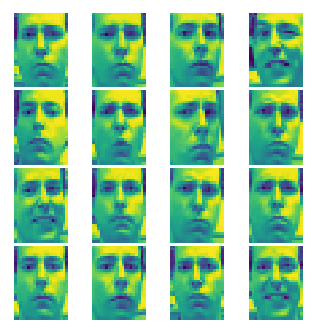
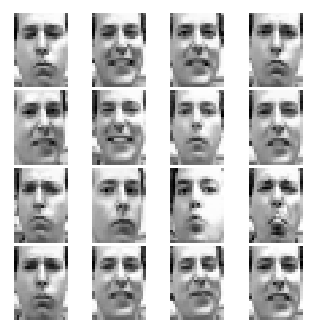
Replaced color plot with grayscale

diff --git a/frey.py b/frey.py
@@ -135,7 +135,7 @@ def train(epoch):
         
 
         if batch_idx == len(train_loader.dataset)/batch_size-1 :
-            print('Train Epoch: {} [{}/{} ({:.0f}%)]\tMinibatch Loss: {:.6f}'.format(
+            print('Train Epoch: {} [{}/{} ({:.0f}%)]\t"Minibatch" Loss: {:.6f}'.format(
                 epoch, (batch_idx+1) * len(data), len(train_loader.dataset),
                 100. * (batch_idx+1) / len(train_loader),
                 loss.data[0] / len(data)))
@@ -155,7 +155,7 @@ def train(epoch):
                 ax.set_xticklabels([])
                 ax.set_yticklabels([])
                 ax.set_aspect('equal')
-                plt.imshow(sample.reshape(28,20))
+                plt.imshow(sample.reshape(28,20), cmap='gray')
 
             if not os.path.exists('out/'):
                 os.makedirs('out/')
@@ -175,7 +175,7 @@ def train(epoch):
                 ax.set_xticklabels([])
                 ax.set_yticklabels([])
                 ax.set_aspect('equal')
-                plt.imshow(sample.reshape(28,20))
+                plt.imshow(sample.reshape(28,20), cmap='gray')
 
             if not os.path.exists('out/'):
                 os.makedirs('out/')

diff --git a/generate_frey.py b/generate_frey.py
@@ -87,10 +87,10 @@ for i, sample in enumerate(samples):
     ax.set_xticklabels([])
     ax.set_yticklabels([])
     ax.set_aspect('equal')
-    plt.imshow(sample.reshape(28,20))
+    plt.imshow(sample.reshape(28,20), cmap='gray')
 
 if not os.path.exists('out/'):
     os.makedirs('out/')
 
-plt.savefig('out/generated_manifold.png',bbox_inches='tight')
+plt.savefig('out/generated_manifold.png',bbox_inches='tight', cmap='gray')
 plt.close(fig)
